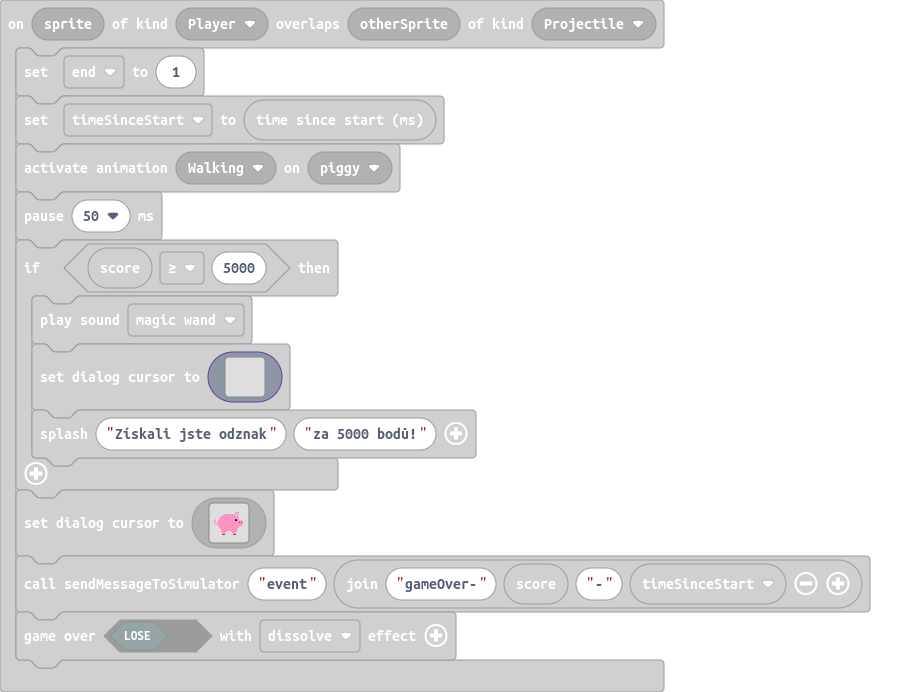
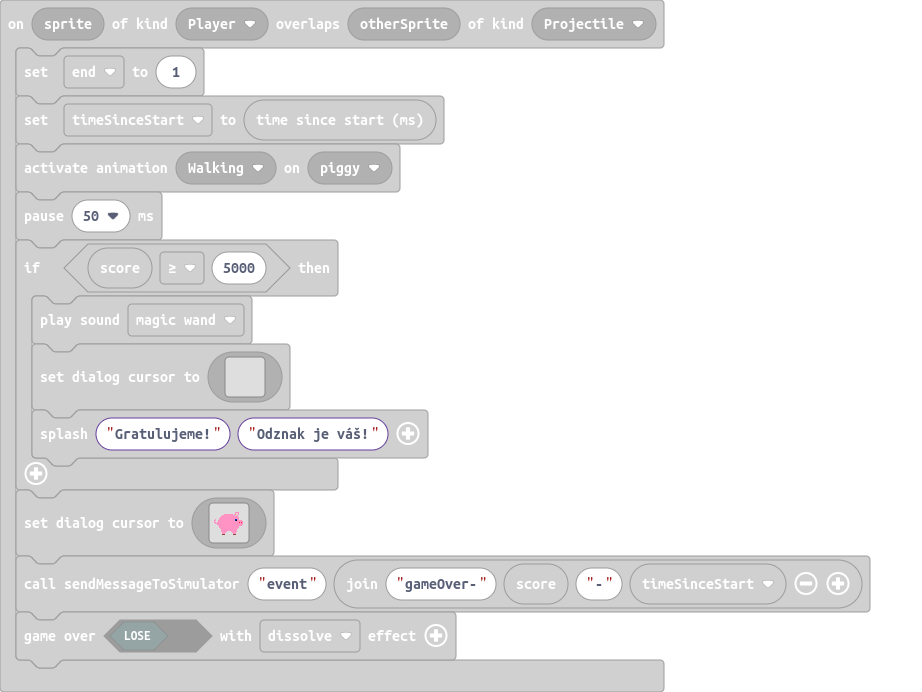
Update main.blocks, main.ts

Changed region(s): [[0.1215, 0.4855, 0.5163, 0.6676]]

diff --git a/main.ts b/main.ts
@@ -85,7 +85,7 @@ sprites.onOverlap(SpriteKind.Player, SpriteKind.Projectile, function (sprite, ot
             . . . . . . . . . . . . . . . . 
             . . . . . . . . . . . . . . . . 
             `)
-        game.splash("Získali jste odznak", "za 5000 bodů!")
+        game.splash("Gratulujeme!", "Odznak je váš!")
     }
     game.setDialogCursor(assets.image`piggy 1`)
     sendMessageToSimulator("event", "gameOver-" + info.score() + "-" + timeSinceStart)
